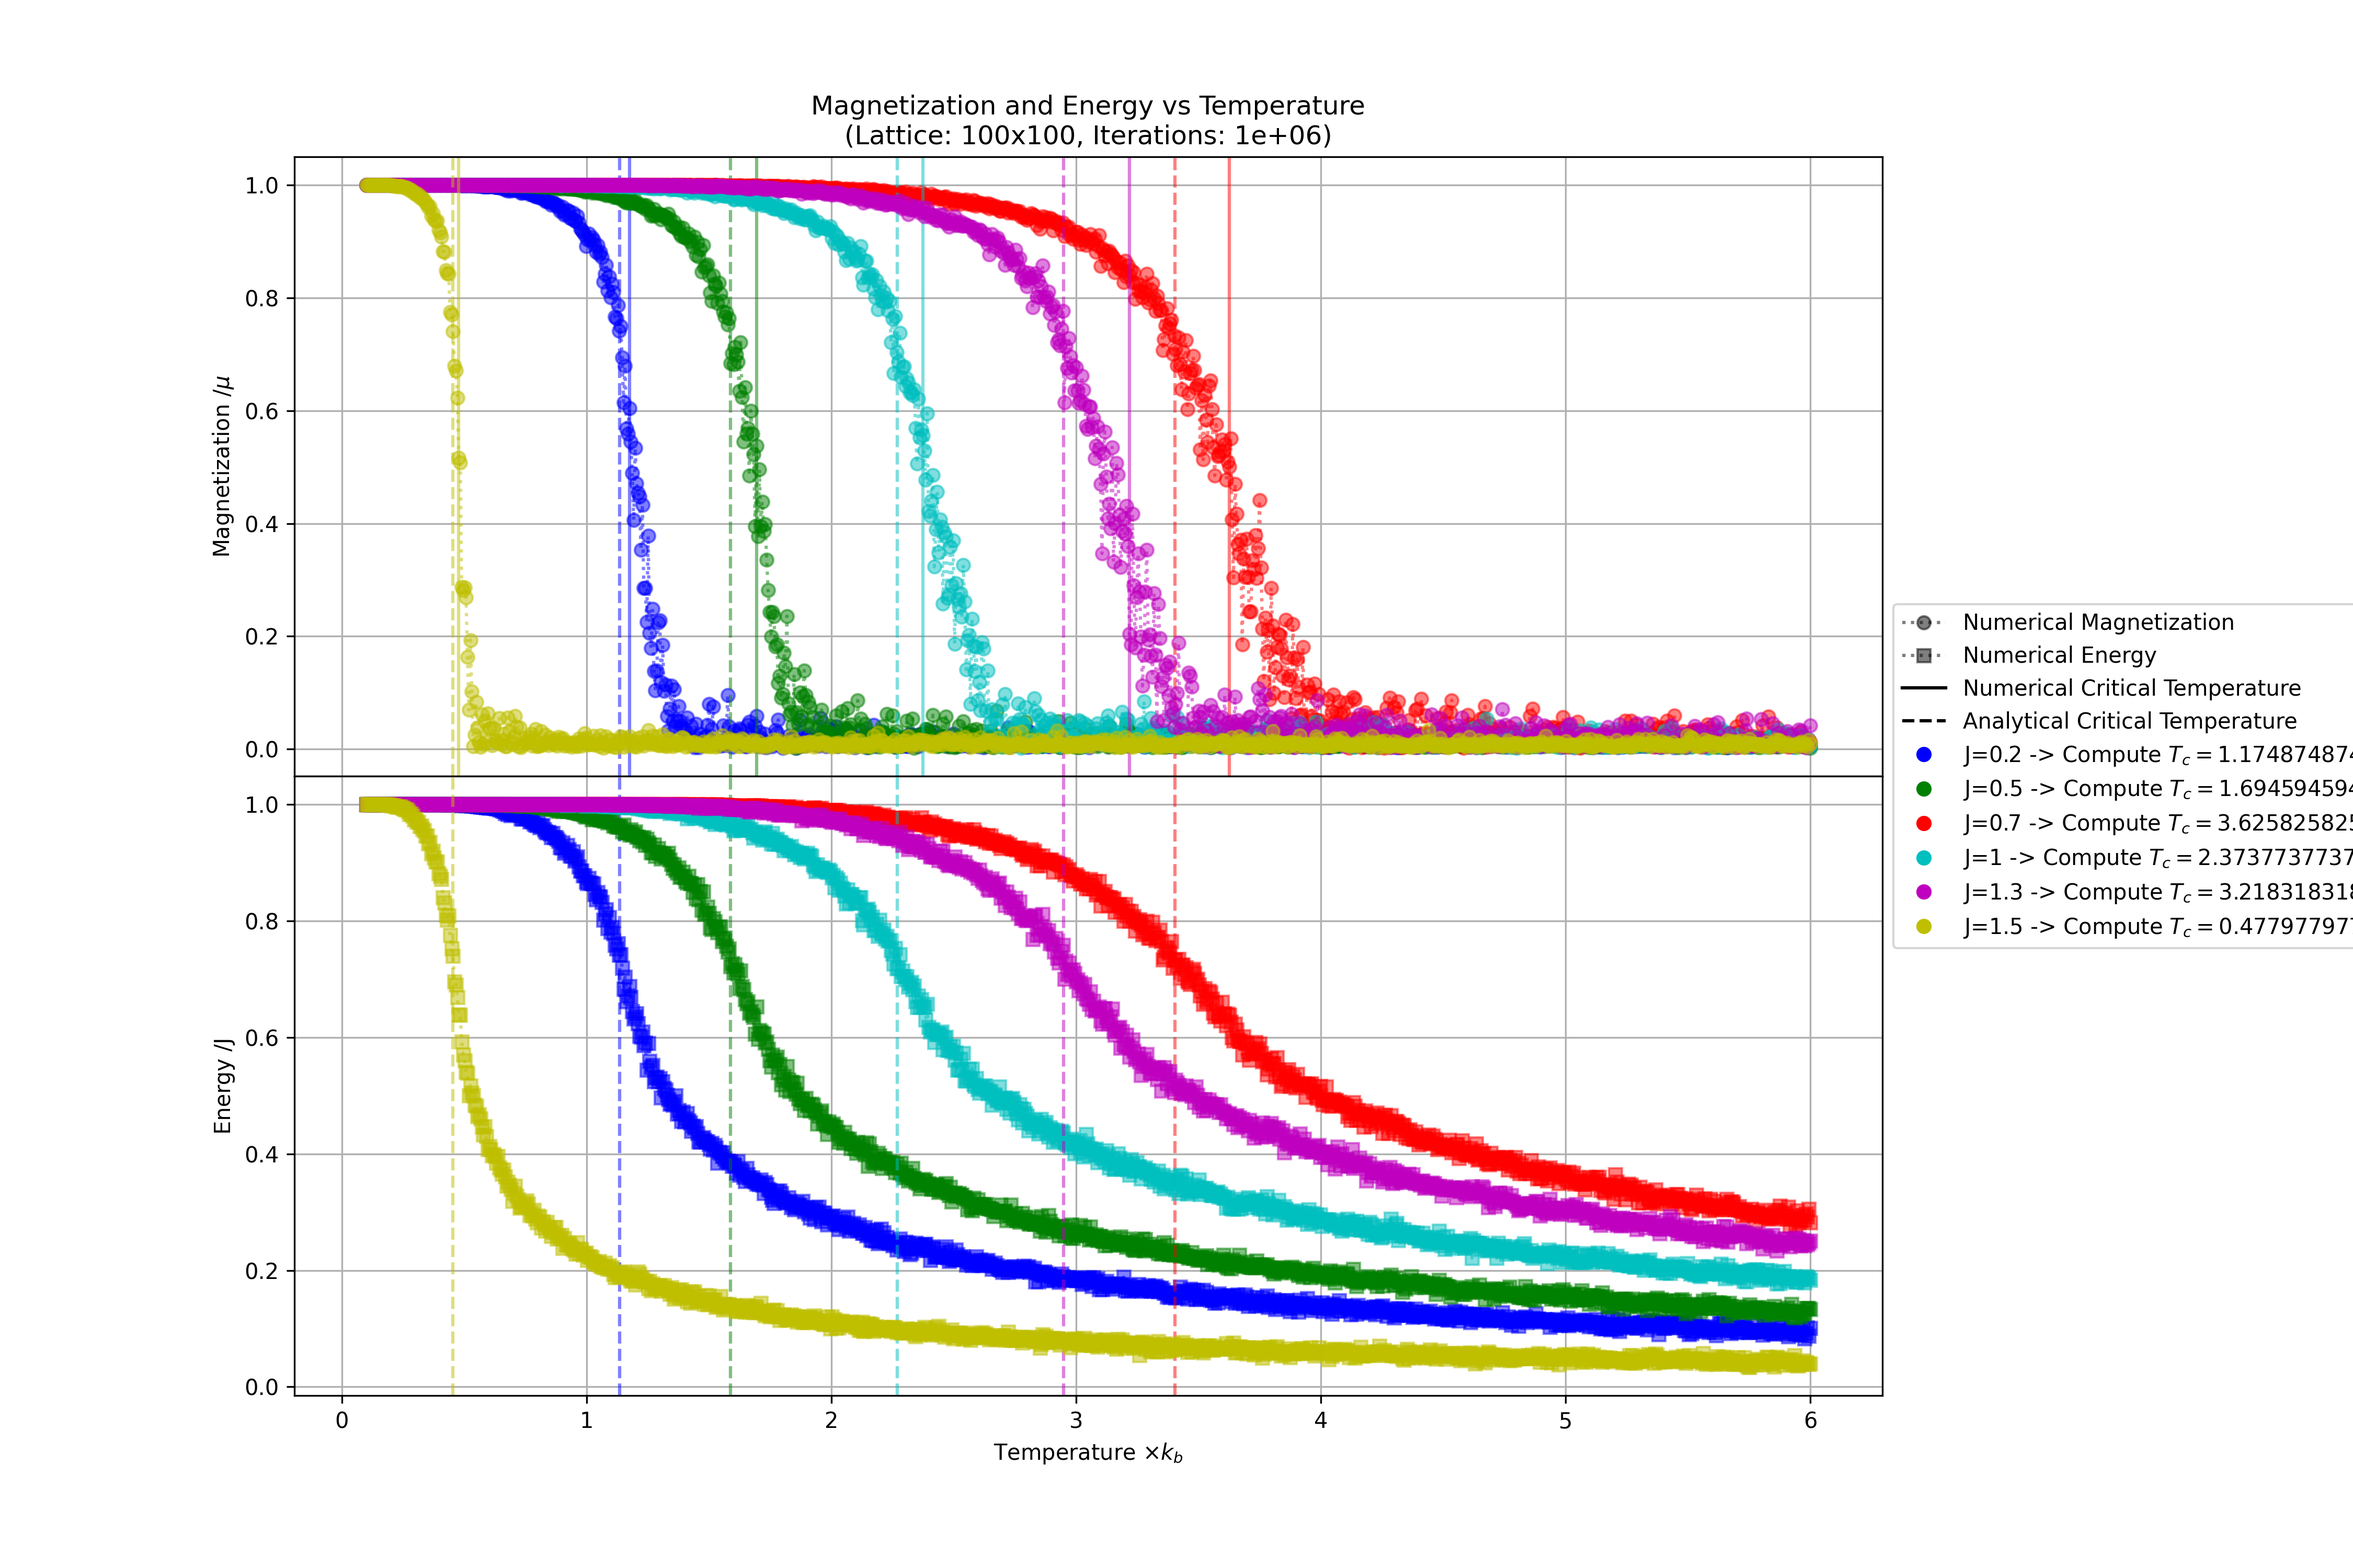
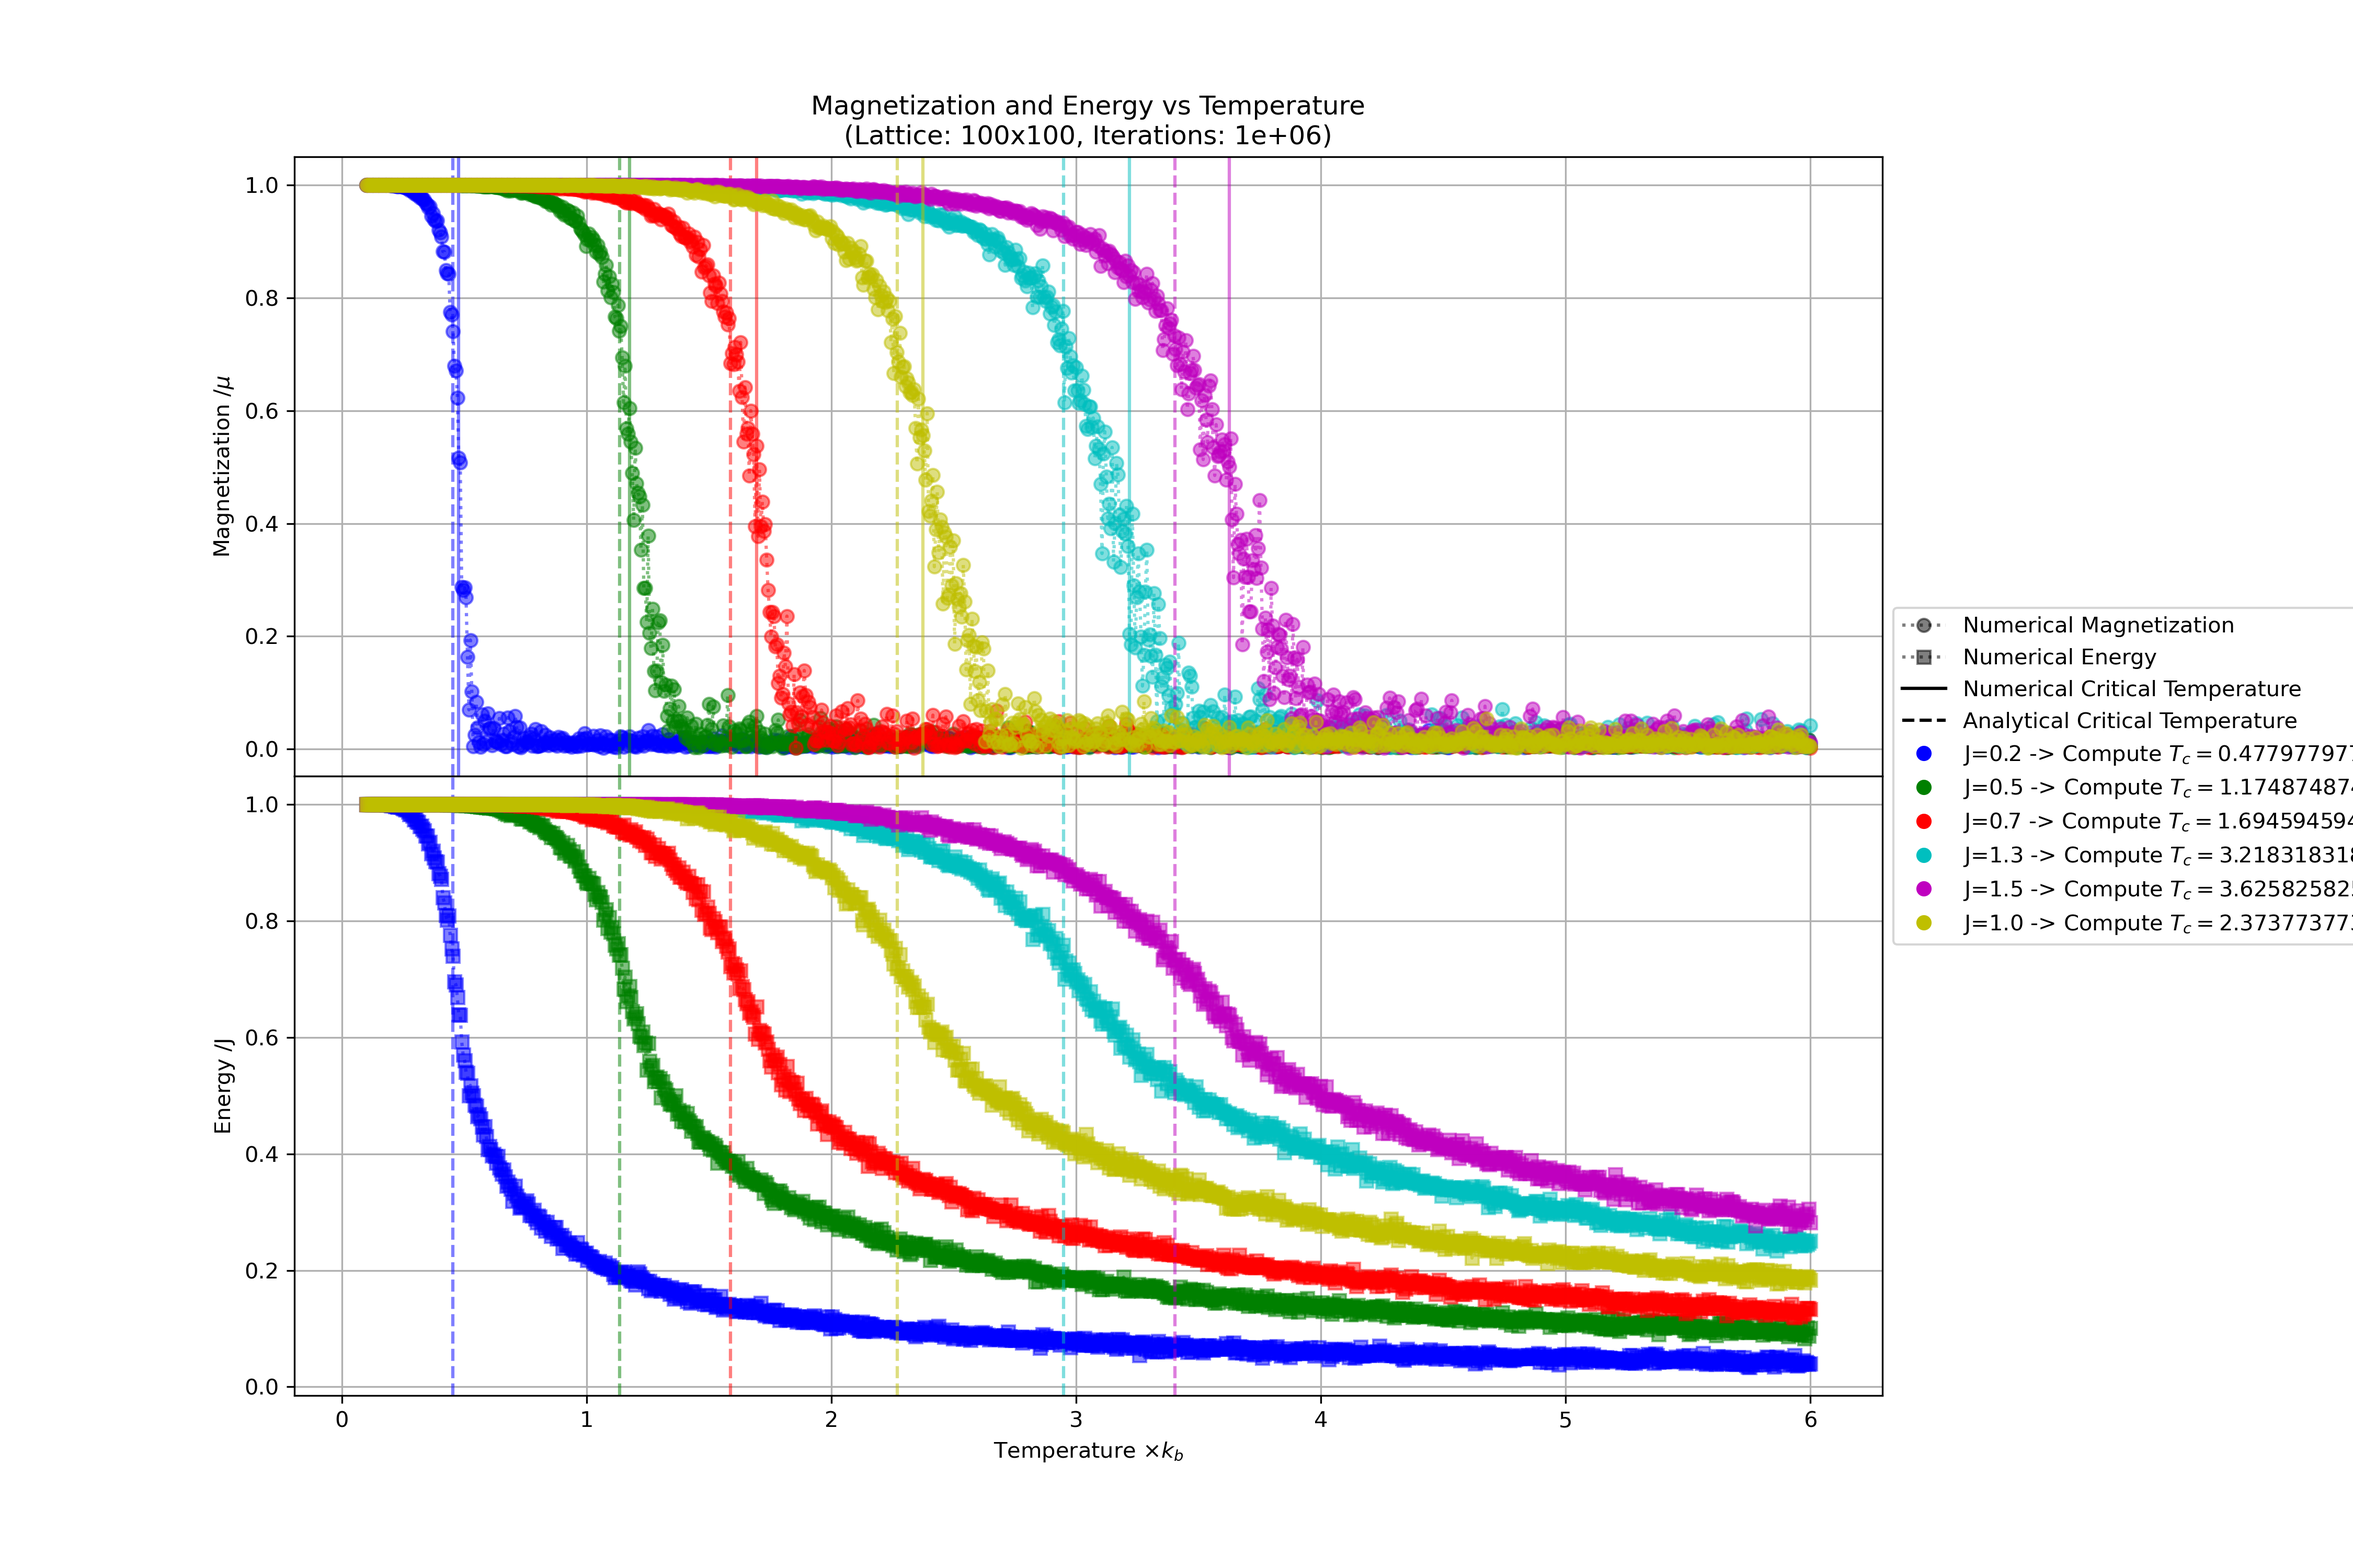
Régler le soucis des graphs

diff --git a/src/graphs.py b/src/graphs.py
@@ -108,6 +108,8 @@ def plot_different_J_graph_magnetization() -> None:
     data_files = os.listdir('data/')
     data_files = [file for file in data_files if file.endswith('.txt')]
 
+    J_tab = []
+
     plt.figure(figsize=(10, 5))  # Adjusted the figure size for a single plot
     plt.title(f'Magnetization vs Temperature\n(Lattice: {N}x{M}, Iterations: {iterations:.0e})')
 
@@ -116,6 +118,8 @@ def plot_different_J_graph_magnetization() -> None:
         data = pd.read_csv("data/" + data_file, sep='\t')
         temperatures = data['Temperature']
         final_magnetization = data['Magnetization']
+
+        J_tab.append(J)
 
         critical_temperature, _, _ = find_critical_temperature(temperatures, final_magnetization)
 
@@ -133,7 +137,7 @@ def plot_different_J_graph_magnetization() -> None:
     dotted_line = mlines.Line2D([], [], color='black', marker='o', linestyle=':', label='Numerical Magnetization')
     full_line = mlines.Line2D([], [], color='black', linestyle='-', label='Numerical Critical Temperature')
     dashed_line = mlines.Line2D([], [], color='black', linestyle='--', label='Analytical Critical Temperature')
-    J_handles = [mlines.Line2D([], [], color=color, marker='o', linestyle='', label=f'J={J}') for J, color in zip(J_values, colors)]
+    J_handles = [mlines.Line2D([], [], color=color, marker='o', linestyle='', label=f'J={J}') for J, color in zip(J_tab, colors)]
 
     # Creating the legend
     plt.legend(handles=[dotted_line, full_line,dashed_line] + J_handles, loc='upper right')
@@ -150,6 +154,8 @@ def plot_different_J_graph_energy() -> None:
     data_files = os.listdir('data/')
     data_files = [file for file in data_files if file.endswith('.txt')]
 
+    J_tab = []
+
     plt.figure(figsize=(10, 5))  # Adjusted the figure size for a single plot
     plt.title(f'Energy vs Temperature\n(Lattice: {N}x{M}, Iterations: {iterations:.0e})')
 
@@ -158,6 +164,8 @@ def plot_different_J_graph_energy() -> None:
         data = pd.read_csv("data/" + data_file, sep='\t')
         temperatures = data['Temperature']
         final_energy = data['Energy']
+
+        J_tab.append(J)
 
         # Plot the final magnetization
         plt.plot(temperatures, final_energy/8, color + 'o', linestyle=':',
@@ -170,7 +178,7 @@ def plot_different_J_graph_energy() -> None:
     # Example handles for legend (removed susceptibility)
     dotted_line = mlines.Line2D([], [], color='black', marker='o', linestyle=':', label='Numerical Energy')
     dashed_line = mlines.Line2D([], [], color='black', linestyle='--', label='Analytical Critical Temperature')
-    J_handles = [mlines.Line2D([], [], color=color, marker='o', linestyle='', label=f'J={J}') for J, color in zip(J_values, colors)]
+    J_handles = [mlines.Line2D([], [], color=color, marker='o', linestyle='', label=f'J={J}') for J, color in zip(J_tab, colors)]
 
     # Creating the legend
     plt.legend(handles=[dotted_line,dashed_line] + J_handles, loc='upper right')
@@ -188,6 +196,7 @@ def plot_magnetization_and_energy() -> None:
     data_files = [file for file in data_files if file.endswith('.txt')]
 
     Tc_tab = []
+    J_tab = []
 
     fig, axs = plt.subplots(2, 1, figsize=(15, 10), sharex=True)
     axs[0].set_title(f'Magnetization and Energy vs Temperature\n(Lattice: {N}x{M}, Iterations: {iterations:.0e})')
@@ -201,6 +210,8 @@ def plot_magnetization_and_energy() -> None:
 
         critical_temperature, _, _ = find_critical_temperature(temperatures, final_magnetization)
         Tc_tab.append(critical_temperature)
+
+        J_tab.append(J)
 
         # Plot magnetization
         axs[0].plot(temperatures, final_magnetization, color + 'o', linestyle=':', label=f"J={J} (MC)", alpha=0.5)
@@ -222,7 +233,7 @@ def plot_magnetization_and_energy() -> None:
     full_line = mlines.Line2D([], [], color='black', linestyle='-', label='Numerical Critical Temperature')
     dashed_line = mlines.Line2D([], [], color='black', linestyle='--', label='Analytical Critical Temperature')
     J_handles = [mlines.Line2D([], [], color=color, marker='o', linestyle='', label=f'J={J} -> Compute $T_c={Tc}$') for J, color, Tc in
-                 zip(J_values, colors, Tc_tab)]
+                 zip(J_tab, colors, Tc_tab)]
 
     # Creating the legend outside the graph
     plt.legend(handles=[dotted_line, dotted_line_energy, full_line, dashed_line] + J_handles, loc='center left',
@@ -249,6 +260,7 @@ def plot_magnetization_and_energy_normalized() -> None:
     data_files = [file for file in data_files if file.endswith('.txt')]
 
     Tc_tab = []
+    J_tab = []
 
     fig, axs = plt.subplots(2, 1, figsize=(15, 10), sharex=True)
     axs[0].set_title(f'Magnetization and Energy vs Temperature\n(Lattice: {N}x{M}, Iterations: {iterations:.0e})')
@@ -268,7 +280,7 @@ def plot_magnetization_and_energy_normalized() -> None:
 
         # Plot magnetization
         axs[0].plot(temperatures, final_magnetization, color + 'o', linestyle=':', label=f"J={J} (MC)", alpha=0.2)
-        axs[0].axvline(x=critical_temperature/J, linestyle='-', color=color, alpha=0.5, label=f"Computated Tc J={J}")
+        axs[0].axvline(x=critical_temperature, linestyle='-', color=color, alpha=0.5, label=f"Computated Tc J={J}")
 
         axs[0].axvline(x=2.269 , linestyle='--', color=color, alpha=0.5, label=f"Analytical Tc J={J}")
         axs[1].axvline(x=2.269, linestyle='--', color=color, alpha=0.5, label=f"Analytical Tc J={J}")
@@ -289,7 +301,7 @@ def plot_magnetization_and_energy_normalized() -> None:
     dashed_line = mlines.Line2D([], [], color='black', linestyle='--', label='Analytical Critical Temperature')
     J_handles = [mlines.Line2D([], [], color=color, marker='o', linestyle='', label=f'J={J} -> Compute $T_c={Tc}$') for
                  J, color, Tc in
-                 zip(J_values, colors, Tc_tab)]
+                 zip(J_tab, colors, Tc_tab)]
 
     # Creating the legend outside the graph
     plt.legend(handles=[dotted_line, dotted_line_energy, full_line, dashed_line] + J_handles, loc='center left',
@@ -321,6 +333,7 @@ def plot_critical_temperature_regression():
     plt.title(f'Critical Temperature vs J\n(Lattice: {N}x{M}, Iterations: {iterations:.0e})')
 
     critical_temperatures = []
+    J_tab = []
 
     for data_file in data_files:
         J = float(data_file.split('_')[-1].split('.txt')[0])
@@ -332,8 +345,10 @@ def plot_critical_temperature_regression():
         critical_temperature, _, _ = find_critical_temperature(temperatures, final_magnetization)
         critical_temperatures.append(critical_temperature)
 
+        J_tab.append(J)
+
     # Plot the critical temperature
-    plt.plot(J_values, critical_temperatures, 'bo', label="Critical Temperature")
+    plt.plot(J_tab, critical_temperatures, 'bo', label="Critical Temperature")
 
     # Plot the regression
     results = np.polyfit(J_values, critical_temperatures, 1)

diff --git a/main.py b/main.py
@@ -24,7 +24,7 @@ if __name__ == "__main__":
 
     # Run the model once for a gif of the magnetization lattice
 
-    #create_gif(2.269, iterations)
+    create_gif(2.269, iterations)
 
     # Run the model in parallel
 
